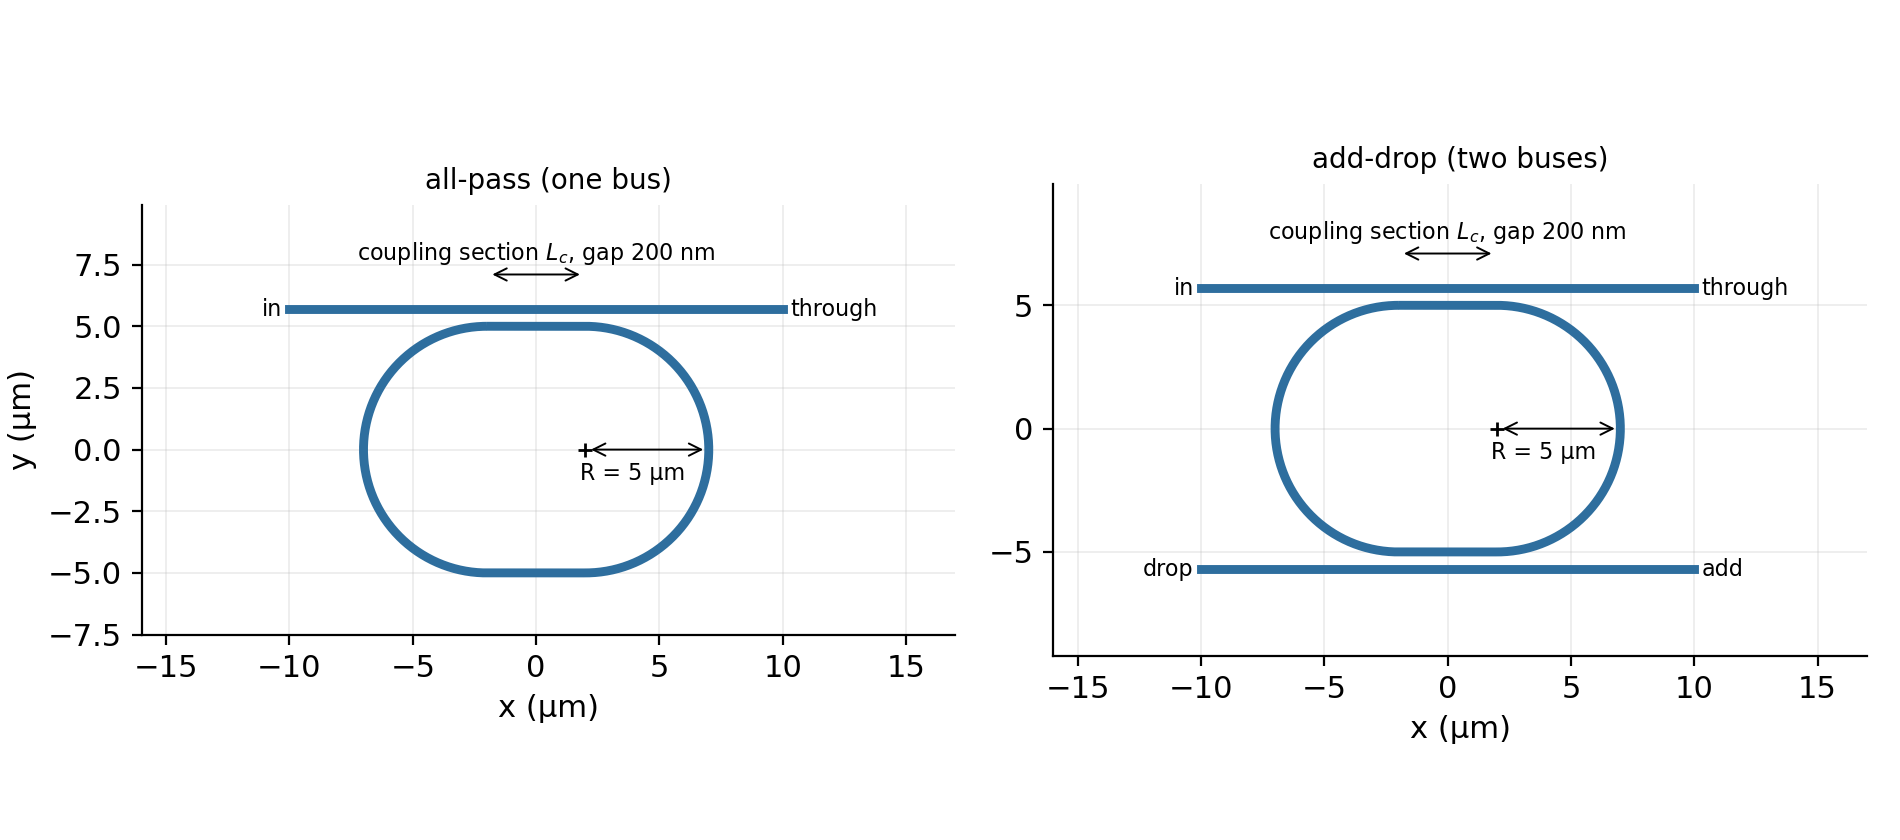
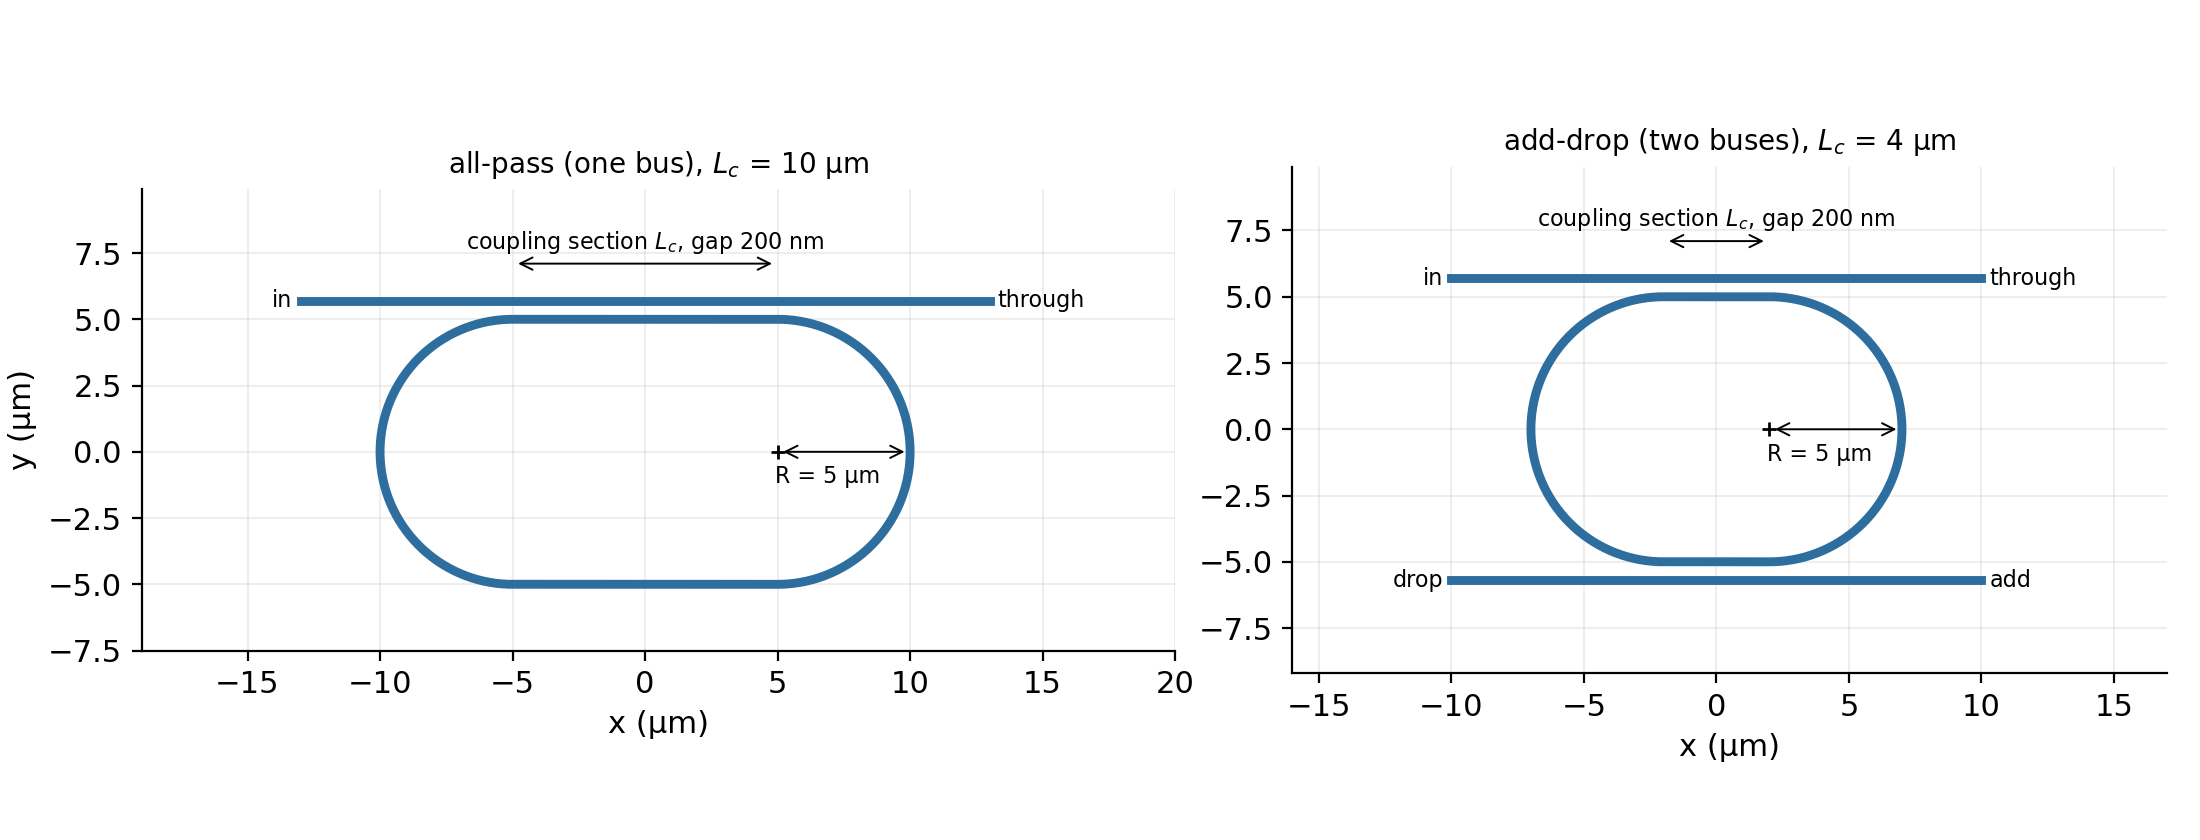
Publish ring-resonator and post revisions; add SiN cavity study to toolkit page; widen profile keywords
- Ring Resonators: regenerated figures, regime field maps, add-drop figure
- Path updates to si/notebooks and corrected numbers across technical posts
- Project page: topological transition numbers, SiN PhC nanocavity row
- site.ts: inverse design in tagline/headline, knowsAbout and tools lists

diff --git a/src/data/site.ts b/src/data/site.ts
@@ -4,10 +4,10 @@
 export const site = {
   name: "Yuma Kawaguchi",
   title: "Photonics Design Engineer",
-  tagline: "Silicon Photonics · Metasurfaces · Topological Photonics",
+  tagline: "Silicon Photonics · Inverse Design · Metasurfaces · Topological Photonics",
   // One line under the name on the Home page.
   headline:
-    "Photonics Design Engineer — silicon photonics and metasurface design, from FEM- and FDTD-verified components to GDS layout.",
+    "Photonics Design Engineer — silicon photonics and metasurface design, adjoint inverse design, and FEM- and FDTD-verified components through to GDS layout.",
   description:
     "Yuma Kawaguchi is a photonics design engineer working on silicon photonics, metasurfaces, and topological photonics. Publications, research notes, and simulation projects.",
   position: "Researcher",
@@ -37,14 +37,23 @@ export const site = {
     "Photonics",
     "Silicon photonics",
     "Photonic integrated circuits",
+    "Photonic integrated circuit design",
+    "Inverse design",
+    "Adjoint optimization",
+    "Topology optimization",
+    "Silicon nitride photonics",
+    "Thin-film lithium niobate modulators",
+    "Photonic crystal cavities",
     "Metasurfaces",
     "Flat optics",
     "Topological photonics",
     "Nonreciprocal photonics",
     "Optical sensing",
     "FDTD simulation",
+    "Finite element method",
+    "RCWA",
   ],
-  tools: ["Lumerical FDTD", "Meep", "COMSOL", "RCWA / Meent", "Python", "GDSFactory"],
+  tools: ["Lumerical FDTD", "Meep", "MPB", "fdtdx (JAX)", "COMSOL", "RCWA / Meent", "SAX", "GDSFactory", "KLayout", "Python"],
 } as const;
 
 export const nav = [
